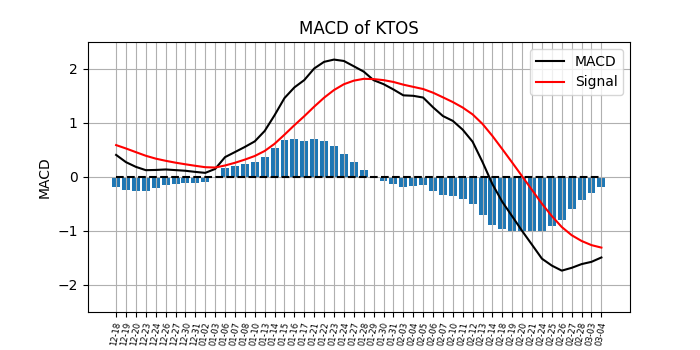
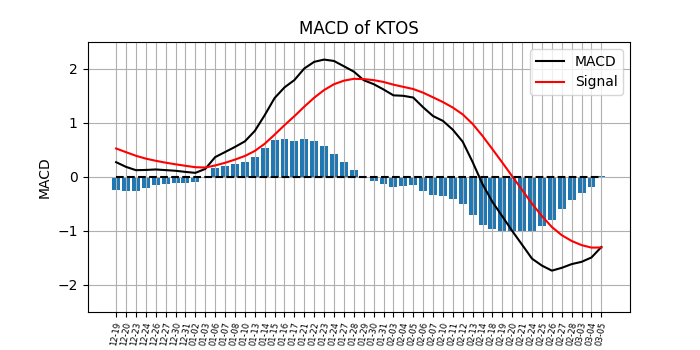
commit for 2025-03-05

diff --git a/_posts/2025-03-05-KTOS.md b/_posts/2025-03-05-KTOS.md
@@ -2,7 +2,7 @@
 layout: post
 title: "KTOS"
 company: Kratos Defense & Security Solutions Inc.
-date: 2025-03-04 -0500
+date: 2025-03-05 -0500
 categories: defense
 ---
 

diff --git a/_posts/2025-03-05-AMD.md b/_posts/2025-03-05-AMD.md
@@ -2,7 +2,7 @@
 layout: post
 title: "AMD"
 company: Advanced Micro Devices Inc.
-date: 2025-03-04 -0500
+date: 2025-03-05 -0500
 categories: tech
 ---
 

diff --git a/_posts/2025-03-05-VRTX.md b/_posts/2025-03-05-VRTX.md
@@ -2,7 +2,7 @@
 layout: post
 title: "VRTX"
 company: Vertex Pharma Inc.
-date: 2025-03-04 -0500
+date: 2025-03-05 -0500
 categories: biotech
 ---
 

diff --git a/_posts/2025-03-05-W.md b/_posts/2025-03-05-W.md
@@ -2,7 +2,7 @@
 layout: post
 title: "W"
 company: Wayfair Inc.
-date: 2025-03-04 -0500
+date: 2025-03-05 -0500
 categories: internet retail
 ---
 

diff --git a/_posts/2025-03-05-LYFT.md b/_posts/2025-03-05-LYFT.md
@@ -2,7 +2,7 @@
 layout: post
 title: "LYFT"
 company: Lyft Inc.
-date: 2025-03-04 -0500
+date: 2025-03-05 -0500
 categories: consumer
 ---
 
